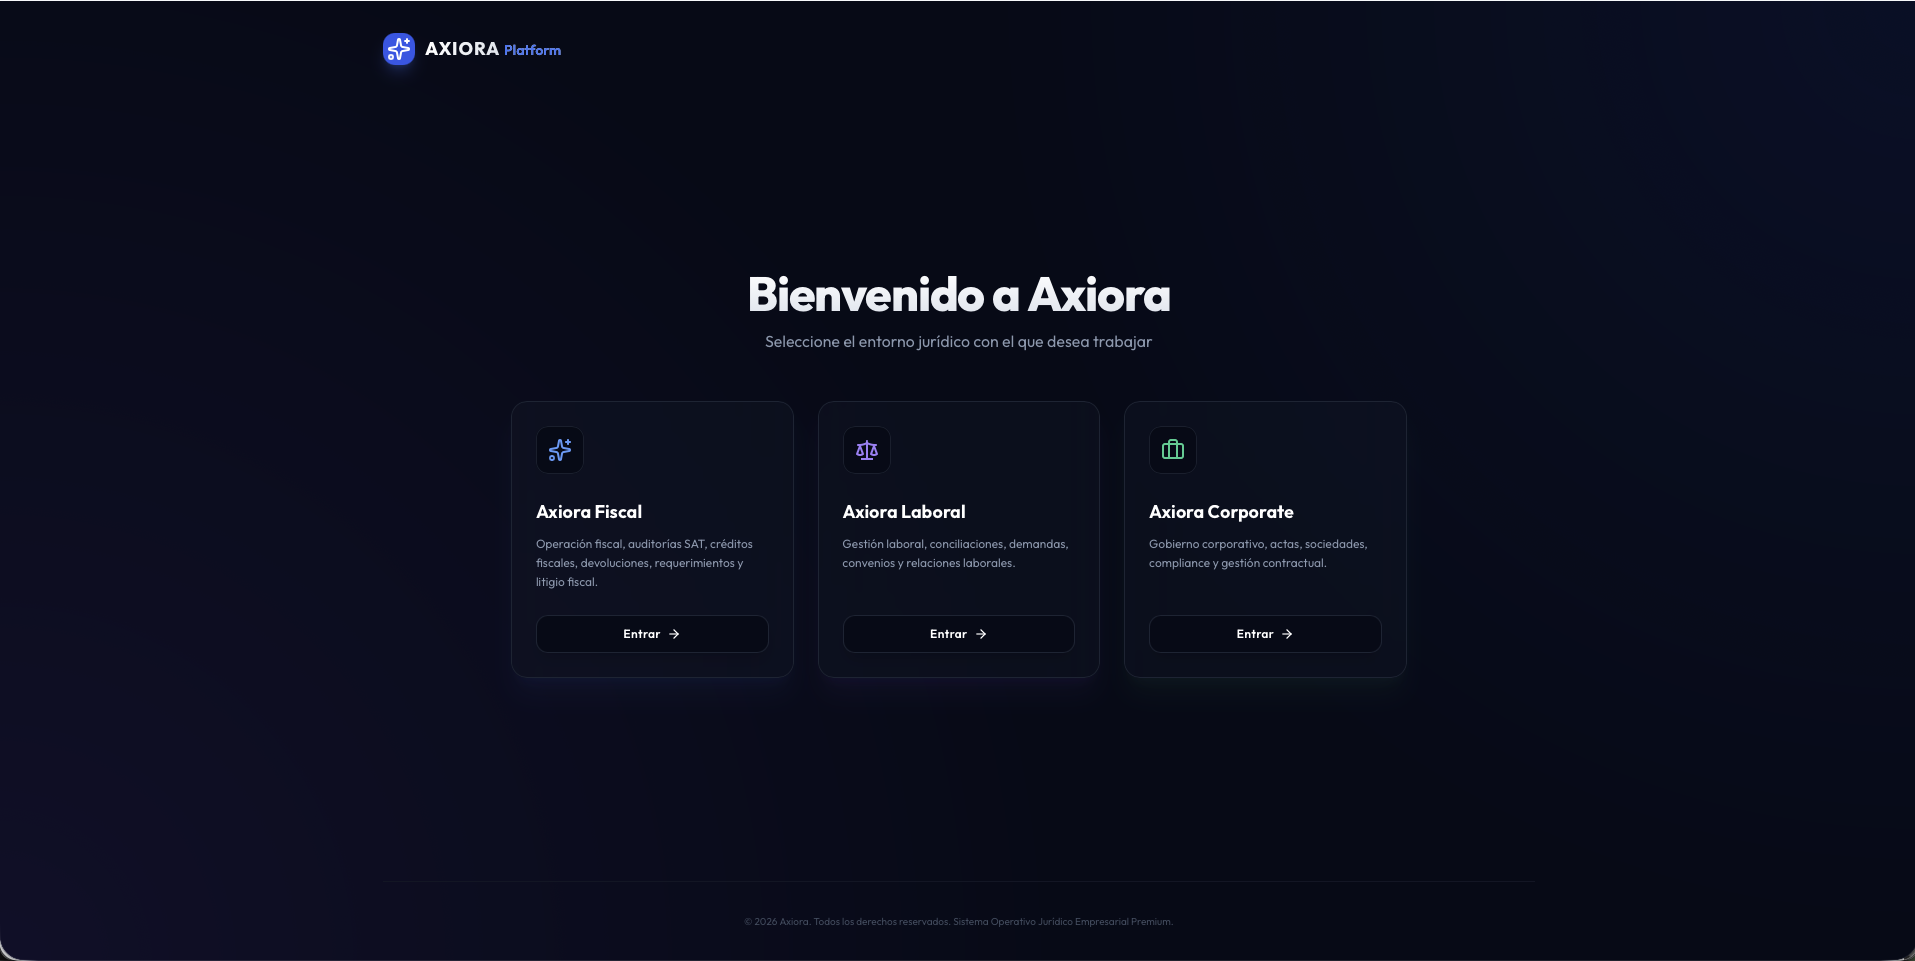
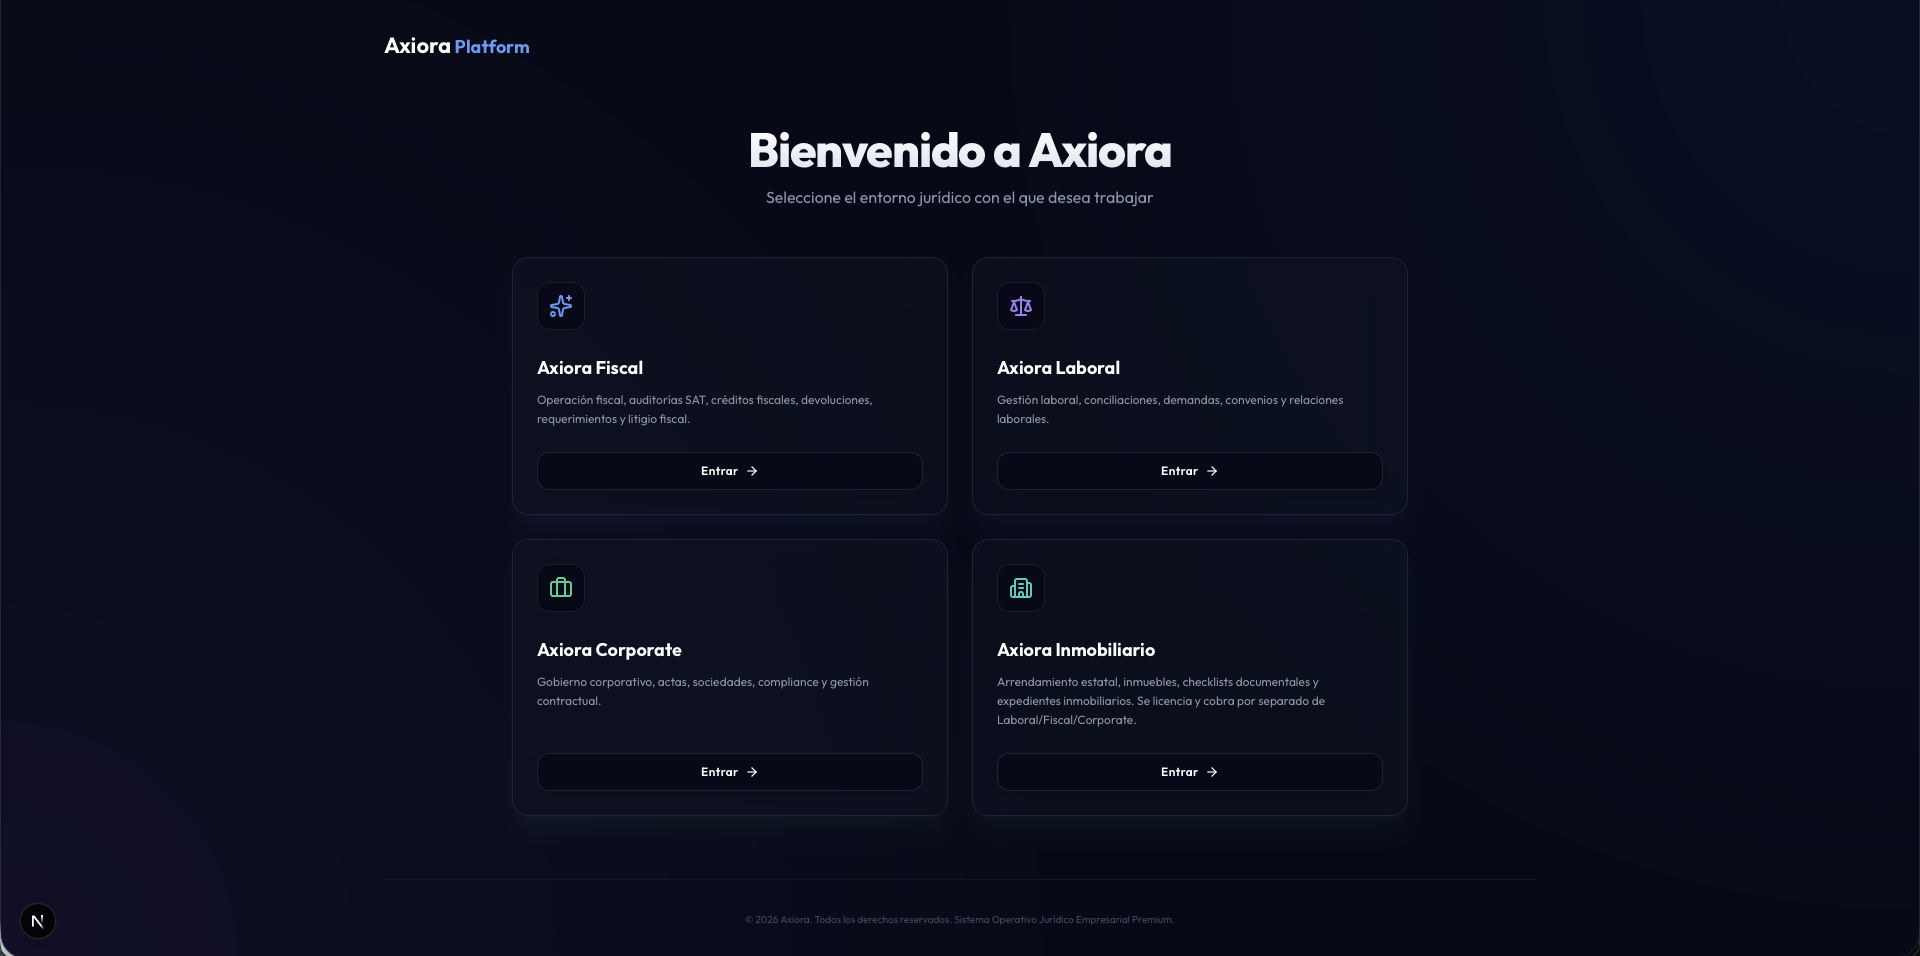
Agregar landing de Axiora en Marketing.
Incluye miniatura y enlace a axiora.com.mx, y actualiza el mockup de producto.

diff --git a/index.html b/index.html
@@ -428,6 +428,17 @@
                     </div>
                     <div class="marketing-pages">
                         <article class="marketing-row">
+                            <a class="marketing-thumb" href="https://axiora.com.mx" target="_blank" rel="noopener noreferrer">
+                                <img src="assets/products/landing_axiora.png" alt="Landing de Axiora" width="400" height="250" />
+                            </a>
+                            <div class="marketing-row-body">
+                                <span class="product-tag">Jurídico · En producción</span>
+                                <h3>Axiora</h3>
+                                <p>Landing del sistema operativo jurídico empresarial para despachos.</p>
+                                <a href="https://axiora.com.mx" class="marketing-link" target="_blank" rel="noopener noreferrer">Ver sitio →</a>
+                            </div>
+                        </article>
+                        <article class="marketing-row">
                             <a class="marketing-thumb" href="https://careflow.com.mx" target="_blank" rel="noopener noreferrer">
                                 <img src="assets/products/landing_careflow.png" alt="Landing de Careflow" width="400" height="250" />
                             </a>
